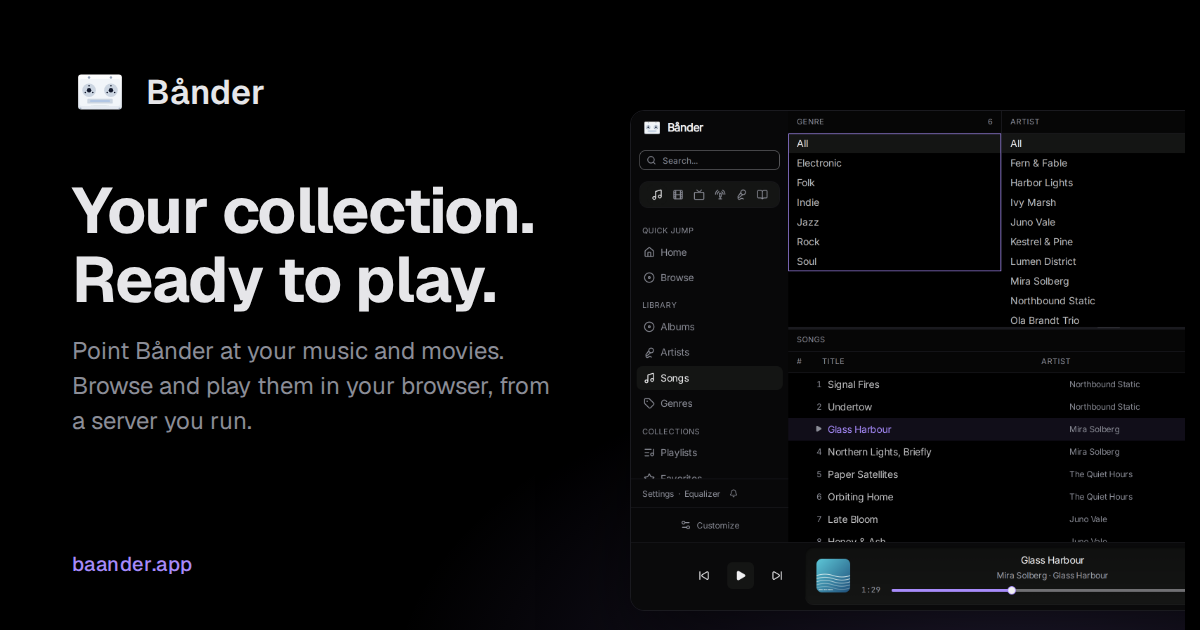
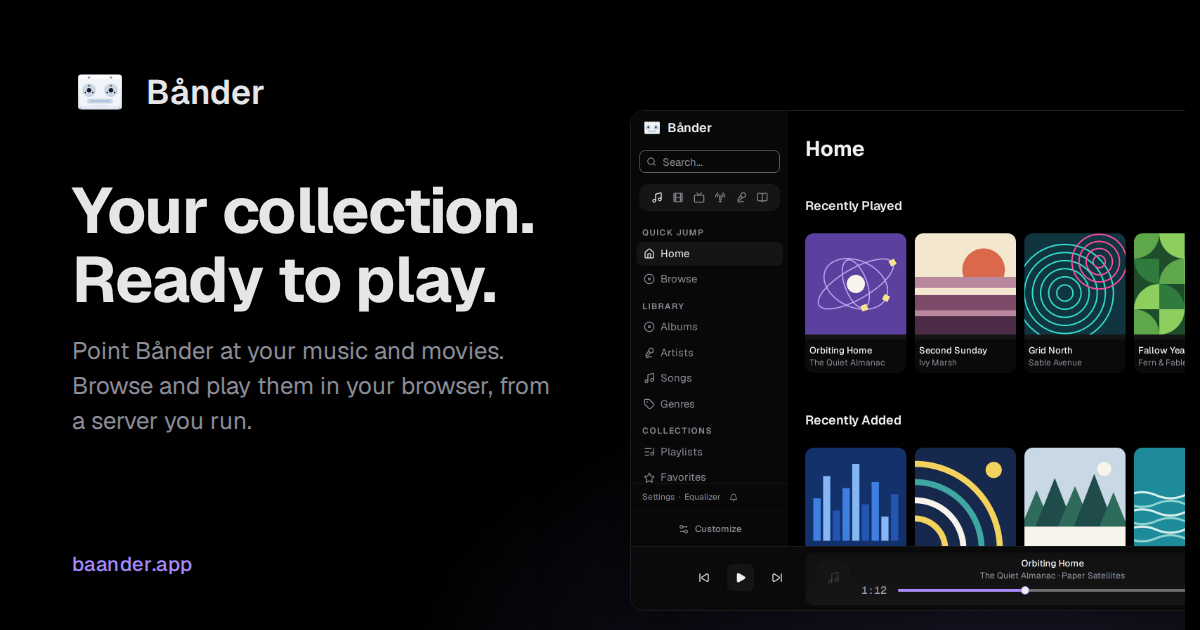
feat(website): show the sample library in the homepage's pictures
The homepage's seven pictures were taken by hand from development
data between 2026-10-31 and 2026-11-04: real releases with "Unknown
artist" rows, an "Updating..." label, and a destinations picture whose
names were replaced in the browser. Each is now a picture the capture
script took from the sample library and recorded:

- hero: library (the home page with recently played songs, albums and
  the player), in place of music;
- equalizer carousel: equalizer-window, equalizer-window-curve,
  equalizer-window-dynamics and equalizer-window-compare, in place of
  equalizer, equalizer-parametric, equalizer-processing and
  equalizer-profiles;
- playlists: playlists-window, in place of playlists;
- playback destinations: destinations-window, in place of
  destinations. It shows the menu after a real move between Chromium
  and Firefox signed in to one account, with nothing staged.

The seven old pairs are deleted. The alternative text describes what
each new picture shows, and every caption says the picture was
captured with sample music. The fourth carousel picture shows the
bands and the A/B Compare card; the device profiles are in the first.

The link-preview card now sits beside the library picture, the
homepage's hero, instead of the destinations picture: with the new
destinations picture, the card's crop showed only the Songs list
because the menu lies at the window's right edge. The card was
rendered again; its headline and description fit as before.
[…]

diff --git a/ui/site/tests/experience.spec.ts b/ui/site/tests/experience.spec.ts
@@ -174,7 +174,7 @@ test('theme screenshots use real image pairs in a stable unfiltered frame and cr
   const figure = page.locator('.hero-screenshot');
   const exposed = figure.getByRole('img');
   await expect(exposed).toHaveCount(1);
-  await expect(exposed).toHaveAttribute('src', '/assets/site/screenshots/music.webp');
+  await expect(exposed).toHaveAttribute('src', '/assets/site/screenshots/library.webp');
   await loadedImage(exposed);
   const frameBefore = await figure.boundingBox();
   const transition = await page.evaluate(() => {
@@ -194,7 +194,7 @@ test('theme screenshots use real image pairs in a stable unfiltered frame and cr
     expect(image.transition).toContain('0.2s');
   }
   await expect(exposed).toHaveCount(1);
-  await expect(exposed).toHaveAttribute('src', '/assets/site/screenshots/music-light.webp');
+  await expect(exposed).toHaveAttribute('src', '/assets/site/screenshots/library-light.webp');
   await loadedImage(exposed);
   await expect.poll(() => figure.locator('img').first().evaluate((image) => getComputedStyle(image).willChange)).toBe('auto');
   const frameAfter = await figure.boundingBox();
@@ -202,7 +202,7 @@ test('theme screenshots use real image pairs in a stable unfiltered frame and cr
   expect(frameAfter?.height).toBe(frameBefore?.height);
   await page.getByRole('button', { name: 'Switch to dark mode' }).click();
   await expect(exposed).toHaveCount(1);
-  await expect(exposed).toHaveAttribute('src', '/assets/site/screenshots/music.webp');
+  await expect(exposed).toHaveAttribute('src', '/assets/site/screenshots/library.webp');
   await expect.poll(() => figure.locator('img').first().evaluate((image) => getComputedStyle(image).willChange)).toBe('auto');
 });
 
@@ -249,6 +249,6 @@ test('reduced motion suppresses effects and cancels transitions already in progr
   await page.getByRole('button', { name: 'Previous equalizer feature' }).click();
   expect(await heroImage.evaluate((image) => getComputedStyle(image).transitionDuration)).toBe('0s');
   expect(await slide.evaluate((element) => getComputedStyle(element).animationName)).toBe('none');
-  await expect(page.locator('.hero-screenshot').getByRole('img')).toHaveAttribute('src', '/assets/site/screenshots/music.webp');
+  await expect(page.locator('.hero-screenshot').getByRole('img')).toHaveAttribute('src', '/assets/site/screenshots/library.webp');
   await expect(page.locator('[data-carousel-status]')).toContainText('1 of 4');
 });

diff --git a/ui/site/tests/features.spec.ts b/ui/site/tests/features.spec.ts
@@ -171,11 +171,17 @@ for (const path of featurePages) {
   });
 }
 
-test('the equalizer page shows the five pictures recorded for its scene, and the site serves each in both variants', async ({ page }) => {
+test('the equalizer page and the homepage together show the eight pictures recorded for the equalizer scene, and the site serves each in both variants', async ({ page }) => {
   const recorded = Object.keys(captures).filter((name) => captures[name].scene === 'equalizer');
-  expect(recorded).toHaveLength(5);
-  await page.goto('/features/equalizer/');
-  const sources = await page.locator('main .app-screenshot img').evaluateAll((images) => images.map((image) => image.getAttribute('src')!));
+  expect(recorded).toHaveLength(8);
+  const shown = async (path: string) => {
+    await page.goto(path);
+    return page.locator('main .app-screenshot img').evaluateAll((images) => images.map((image) => image.getAttribute('src')!));
+  };
+  const onPage = await shown('/features/equalizer/');
+  const onHomepage = (await shown('/')).filter((source) => /\/equalizer-[^/]+$/.test(source));
+  expect(onPage).toHaveLength(10);
+  const sources = [...new Set([...onPage, ...onHomepage])];
   expect([...sources].sort()).toEqual(recorded.flatMap((name) => [`/assets/site/screenshots/${name}-light.webp`, `/assets/site/screenshots/${name}.webp`]).sort());
   // The variant an appearance hides is not loaded by the page, so each file is asked for by itself.
   const served = await page.evaluate((paths) => Promise.all(paths.map(async (path) => {

diff --git a/ui/site/templates/home.php b/ui/site/templates/home.php
@@ -17,12 +17,12 @@ include __DIR__ . '/header.php';
     <figure class="app-screenshot hero-screenshot">
       <?php
       $screenshot = [
-          'name' => 'music',
-          'alt' => "Bånder's music library in the browser, with album artwork and playback controls.",
+          'name' => 'library',
+          'alt' => "Bånder's music library in the browser: the home page with recently played songs, albums and the player.",
       ];
       include __DIR__ . '/screenshot.php';
       ?>
-      <figcaption><a href="/features/library/">Music browsing and playback</a> · Captured in Bånder</figcaption>
+      <figcaption><a href="/features/library/">Music browsing and playback</a> · Captured in Bånder with sample music</figcaption>
     </figure>
   </section>
 
@@ -44,13 +44,13 @@ include __DIR__ . '/header.php';
         <figure class="app-screenshot feature-screenshot">
           <?php
           $screenshot = [
-              'name' => 'equalizer',
-              'alt' => "Bånder's graphic equalizer, presets and live input analyzer.",
+              'name' => 'equalizer-window',
+              'alt' => "Bånder's equalizer page: the live input analyzer, the presets and two device profiles.",
               'loading' => 'lazy',
           ];
           include __DIR__ . '/screenshot.php';
           ?>
-          <figcaption>Graphic EQ and input analyzer · Captured in Bånder</figcaption>
+          <figcaption>Input analyzer and presets · Captured in Bånder with sample music</figcaption>
         </figure>
       </div>
       <div class="experience-feature carousel-slide" id="eq-parametric" data-carousel-slide data-slide-title="Parametric controls">
@@ -63,13 +63,13 @@ include __DIR__ . '/header.php';
         <figure class="app-screenshot feature-screenshot">
           <?php
           $screenshot = [
-              'name' => 'equalizer-parametric',
-              'alt' => "Bånder's parametric equalizer with a response curve and selectable band points.",
+              'name' => 'equalizer-window-curve',
+              'alt' => "Bånder's parametric equalizer: a response curve with a point for each band and the selected band's frequency, gain and Q.",
               'loading' => 'lazy',
           ];
           include __DIR__ . '/screenshot.php';
           ?>
-          <figcaption>Parametric EQ · Captured in Bånder</figcaption>
+          <figcaption>Parametric EQ · Captured in Bånder with sample music</figcaption>
         </figure>
       </div>
       <div class="experience-feature carousel-slide" id="eq-processing" data-carousel-slide data-slide-title="Audio processing">
@@ -82,13 +82,13 @@ include __DIR__ . '/header.php';
         <figure class="app-screenshot feature-screenshot">
           <?php
           $screenshot = [
-              'name' => 'equalizer-processing',
-              'alt' => "Bånder's audio processing controls for compression, stereo width, crossfeed, loudness and master gain.",
+              'name' => 'equalizer-window-dynamics',
+              'alt' => "Bånder's audio processing controls: the compressor's five settings, stereo width, crossfeed, loudness and master gain with a loudness target.",
               'loading' => 'lazy',
           ];
           include __DIR__ . '/screenshot.php';
           ?>
-          <figcaption>Audio processing · Captured in Bånder</figcaption>
+          <figcaption>Audio processing · Captured in Bånder with sample music</figcaption>
         </figure>
       </div>
       <div class="experience-feature carousel-slide" id="eq-profiles" data-carousel-slide data-slide-title="A/B comparison and device profiles">
@@ -101,13 +101,13 @@ include __DIR__ . '/header.php';
         <figure class="app-screenshot feature-screenshot">
           <?php
           $screenshot = [
-              'name' => 'equalizer-profiles',
-              'alt' => "Bånder's A/B comparison slots and named device profiles.",
+              'name' => 'equalizer-window-compare',
+              'alt' => "Bånder's ten equalizer bands above the A/B Compare card, with both slots captured.",
               'loading' => 'lazy',
           ];
           include __DIR__ . '/screenshot.php';
           ?>
-          <figcaption>A/B comparison and device profiles · Captured in Bånder</figcaption>
+          <figcaption>Bands and A/B comparison · Captured in Bånder with sample music</figcaption>
         </figure>
       </div>
     </div>
@@ -135,13 +135,13 @@ include __DIR__ . '/header.php';
     <figure class="app-screenshot feature-screenshot">
       <?php
       $screenshot = [
-          'name' => 'playlists',
-          'alt' => "Bånder's playlists view in the browser.",
+          'name' => 'playlists-window',
+          'alt' => "Bånder's playlists view in the browser: a playlist's page with its songs, Play all and Share.",
           'loading' => 'lazy',
       ];
       include __DIR__ . '/screenshot.php';
       ?>
-      <figcaption>Playlists · Captured in Bånder</figcaption>
+      <figcaption>A playlist · Captured in Bånder with sample music</figcaption>
     </figure>
   </section>
 
@@ -163,8 +163,8 @@ include __DIR__ . '/header.php';
     <figure class="app-screenshot feature-screenshot">
       <?php
       $screenshot = [
-          'name' => 'destinations',
-          'alt' => "Bånder's playback destination menu, showing music playing on the living-room device with other signed-in devices listed.",
+          'name' => 'destinations-window',
+          'alt' => "Bånder's playback destination menu after a move: this browser, Chrome on Linux, and Firefox on Linux, which now plays, with an entry that returns playback.",
           'loading' => 'lazy',
       ];
       include __DIR__ . '/screenshot.php';
